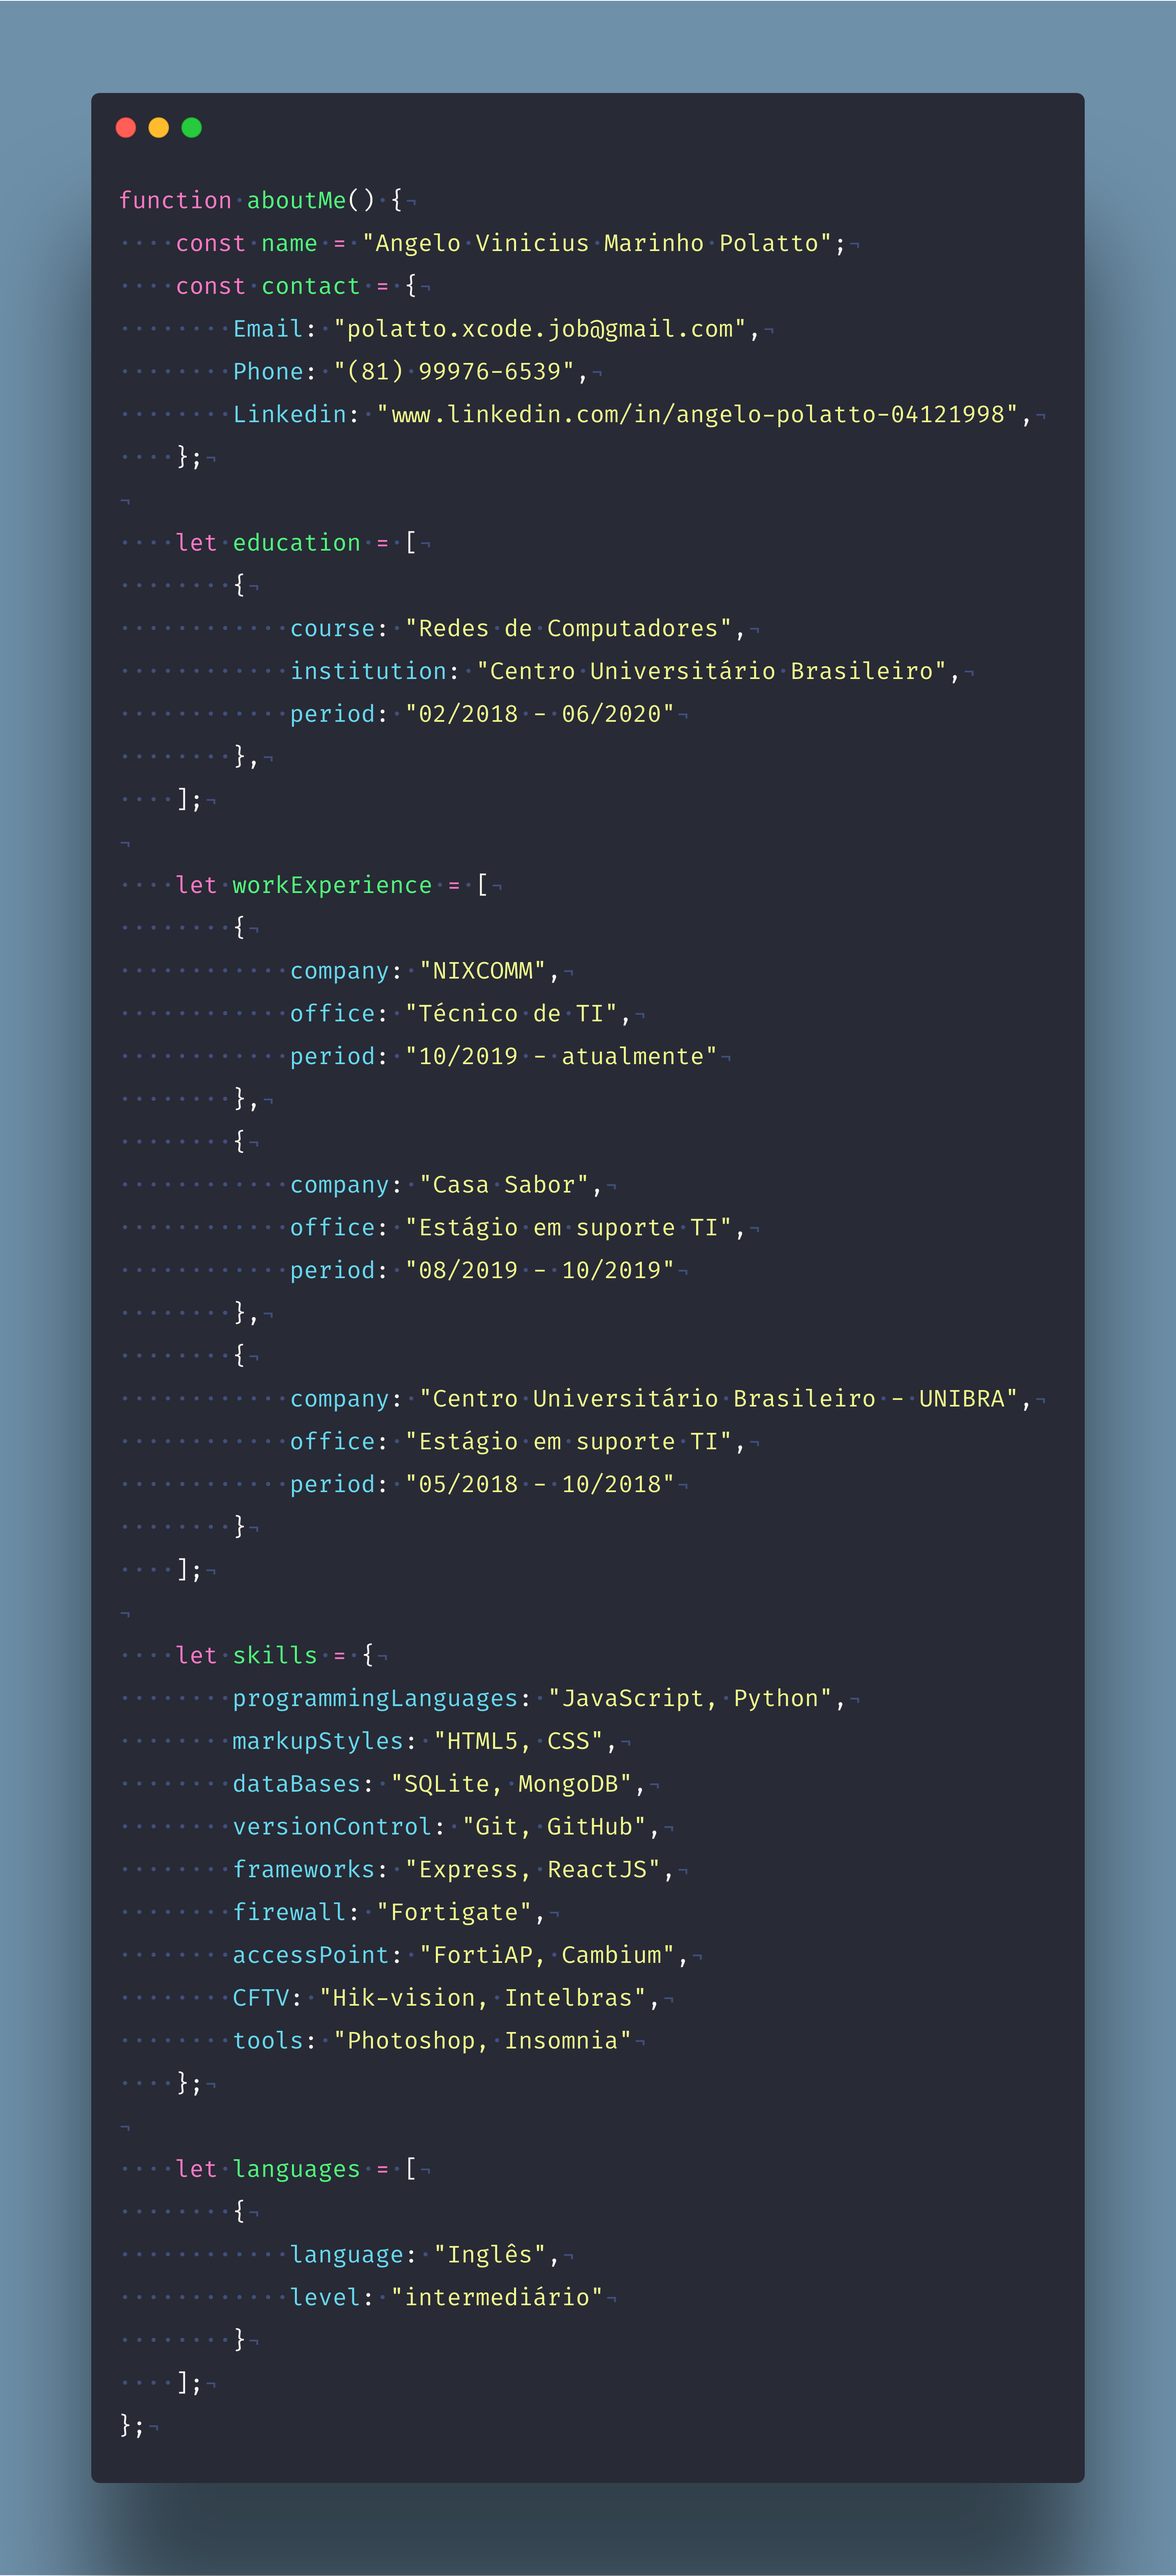
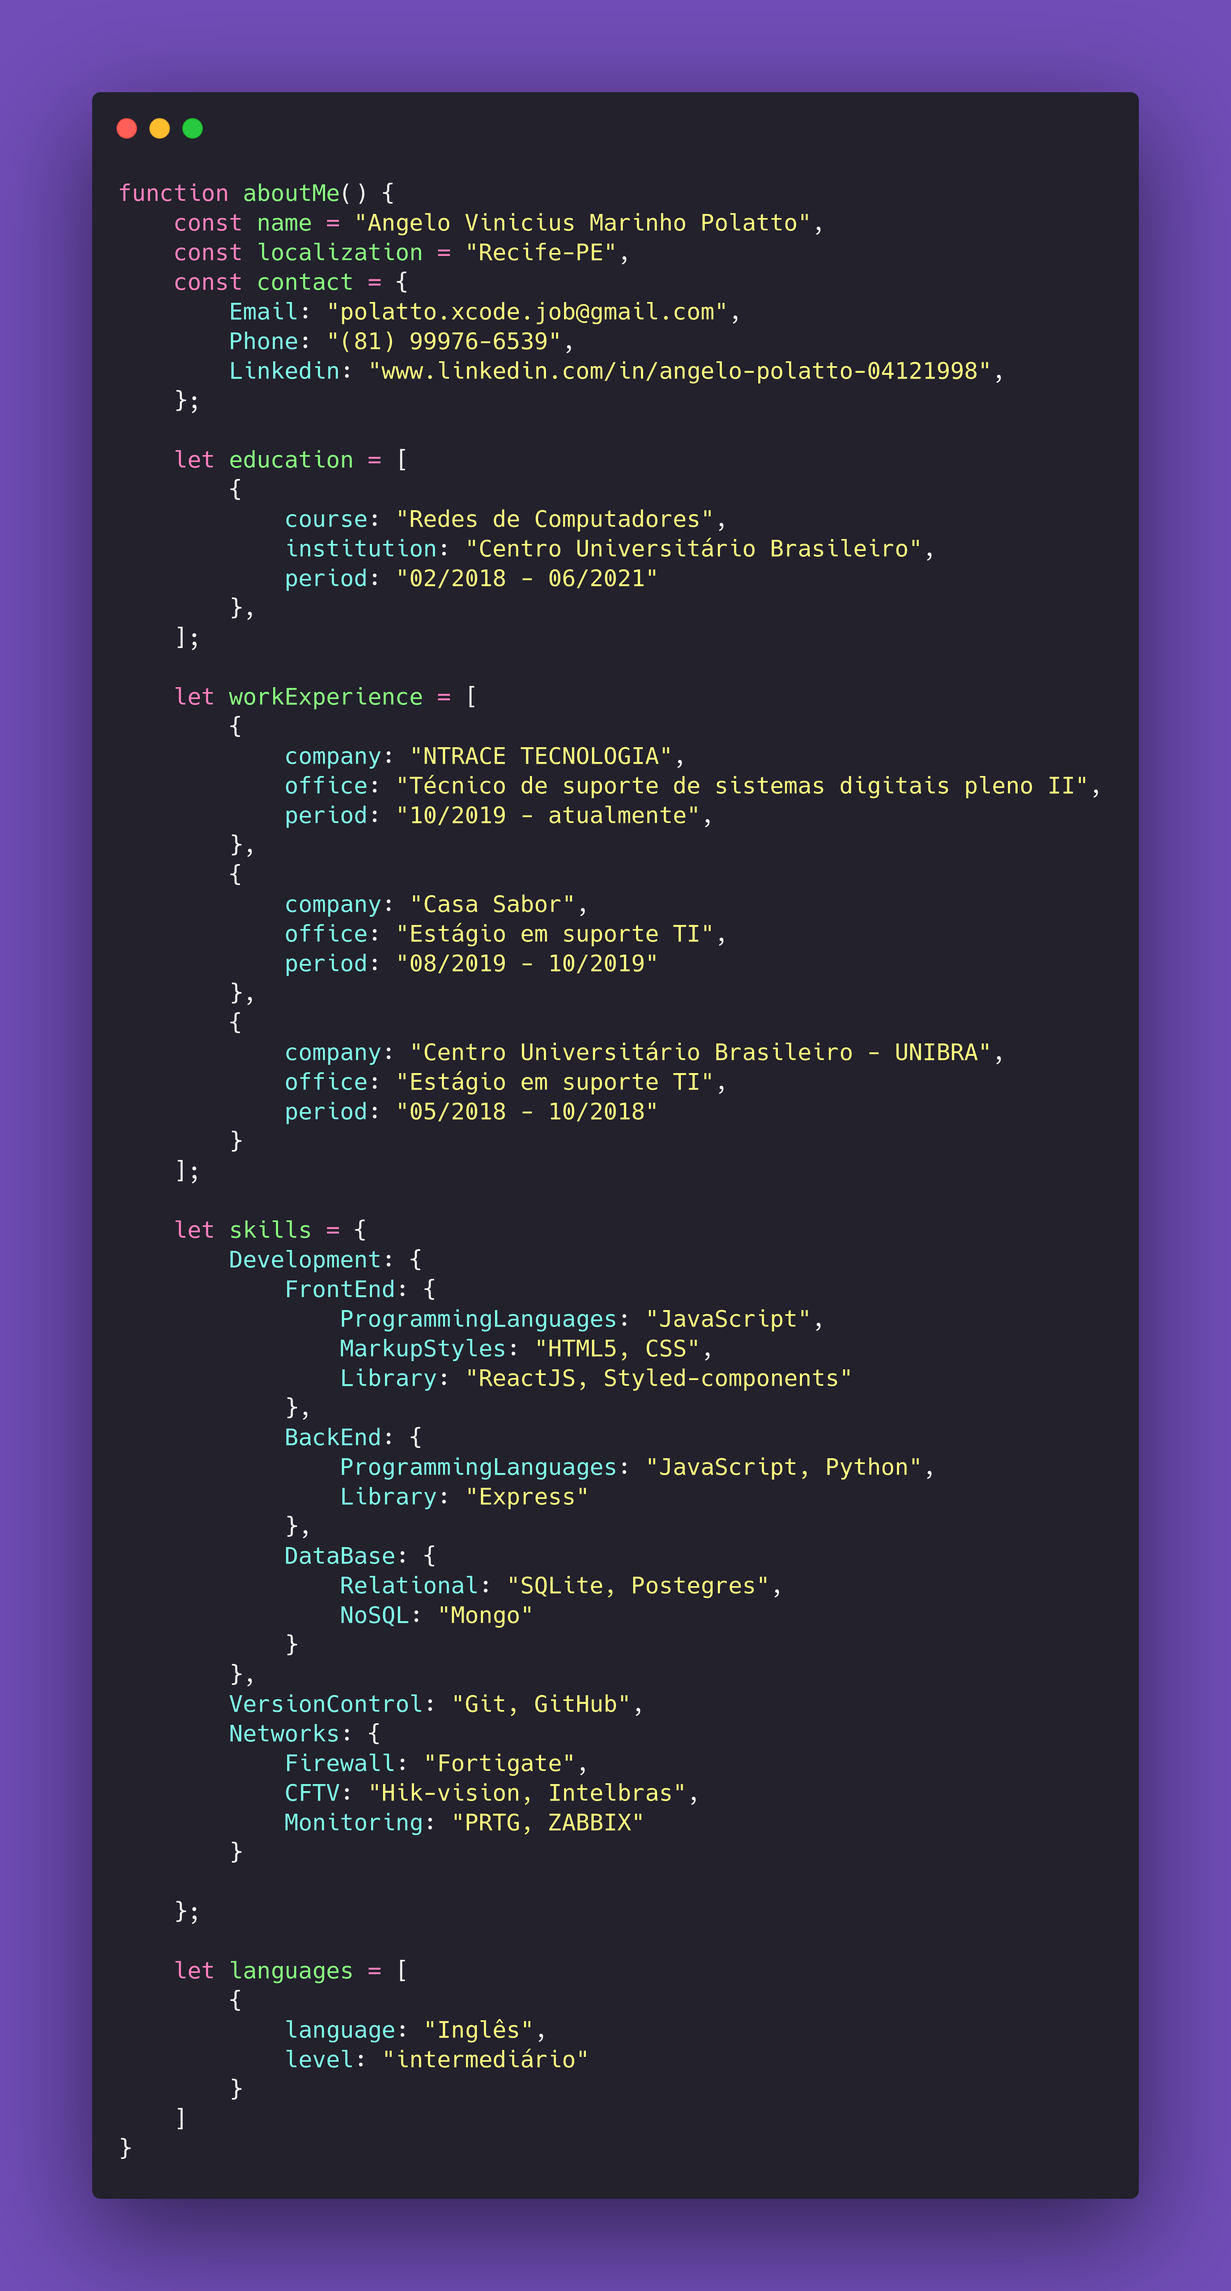
Update-28/02

diff --git a/howIAm.js b/howIAm.js
@@ -1,5 +1,6 @@
 function aboutMe() {
-    const name = "Angelo Vinicius Marinho Polatto"
+    const name = "Angelo Vinicius Marinho Polatto",
+    const localization = "Recife-PE",
     const contact = {
         Email: "polatto.xcode.job@gmail.com",
         Phone: "(81) 99976-6539",
@@ -10,15 +11,15 @@ function aboutMe() {
         {
             course: "Redes de Computadores",
             institution: "Centro Universitário Brasileiro",
-            period: "02/2018 - 06/2020"
+            period: "02/2018 - 06/2021"
         },
     ];
 
     let workExperience = [
         {
-            company: "NIXCOMM",
-            office: "Técnico de TI",
-            period: "10/2019 - atualmente"
+            company: "NTRACE TECNOLOGIA",
+            office: "Técnico de suporte de sistemas digitais pleno II",
+            period: "10/2019 - atualmente",
         },
         {
             company: "Casa Sabor",
@@ -33,15 +34,28 @@ function aboutMe() {
     ];
 
     let skills = {
-        programmingLanguages: "JavaScript, Python",
-        markupStyles: "HTML5, CSS",
-        dataBases: "SQLite, MongoDB",
-        versionControl: "Git, GitHub",
-        frameworks: "Express, ReactJS",
-        firewall: "Fortigate",
-        accessPoint: "FortiAP, Cambium",
-        CFTV: "Hik-vision, Intelbras",
-        tools: "Photoshop, Insomnia"
+        Development: {
+            FrontEnd: {
+                ProgrammingLanguages: "JavaScript",
+                MarkupStyles: "HTML5, CSS",
+                Library: "ReactJS, Styled-components"
+            },
+            BackEnd: {
+                ProgrammingLanguages: "JavaScript, Python",
+                Library: "Express"
+            },
+            DataBase: {
+                Relational: "SQLite, Postegres",
+                NoSQL: "Mongo"
+            }
+        },
+        VersionControl: "Git, GitHub",
+        Networks: {
+            Firewall: "Fortigate",
+            CFTV: "Hik-vision, Intelbras",
+            Monitoring: "PRTG, ZABBIX"
+        }
+        
     };
 
     let languages = [
